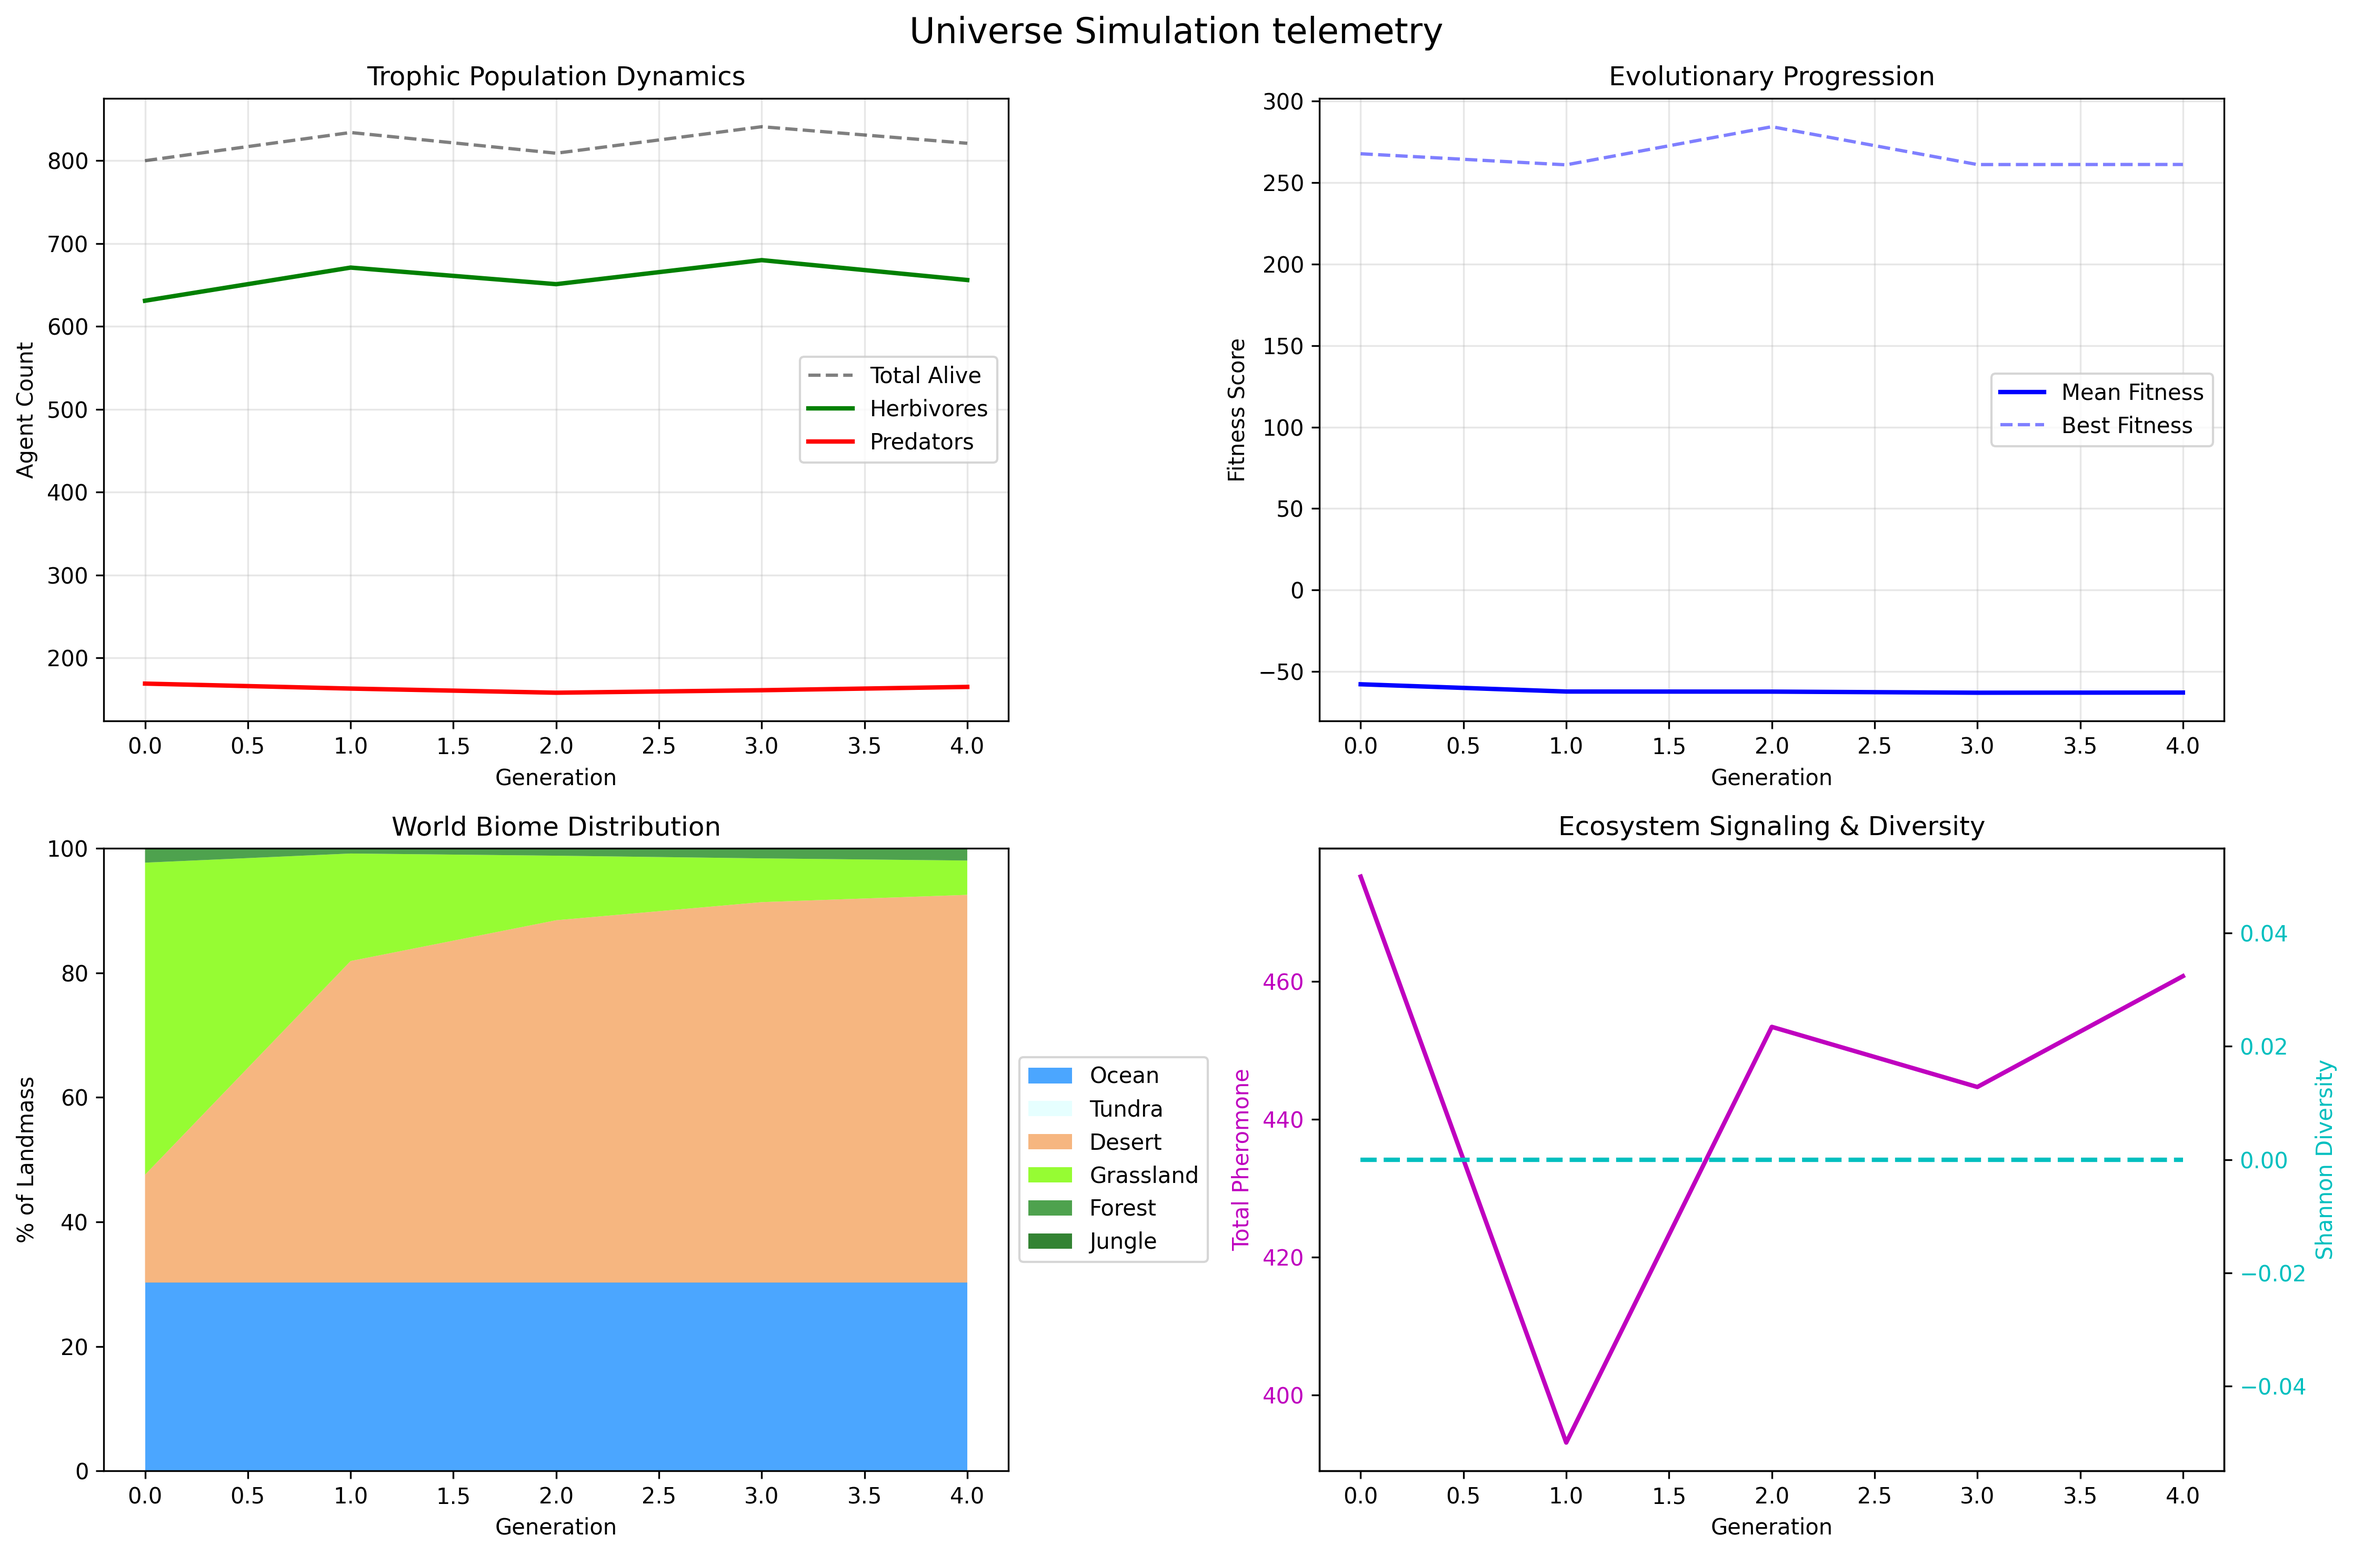
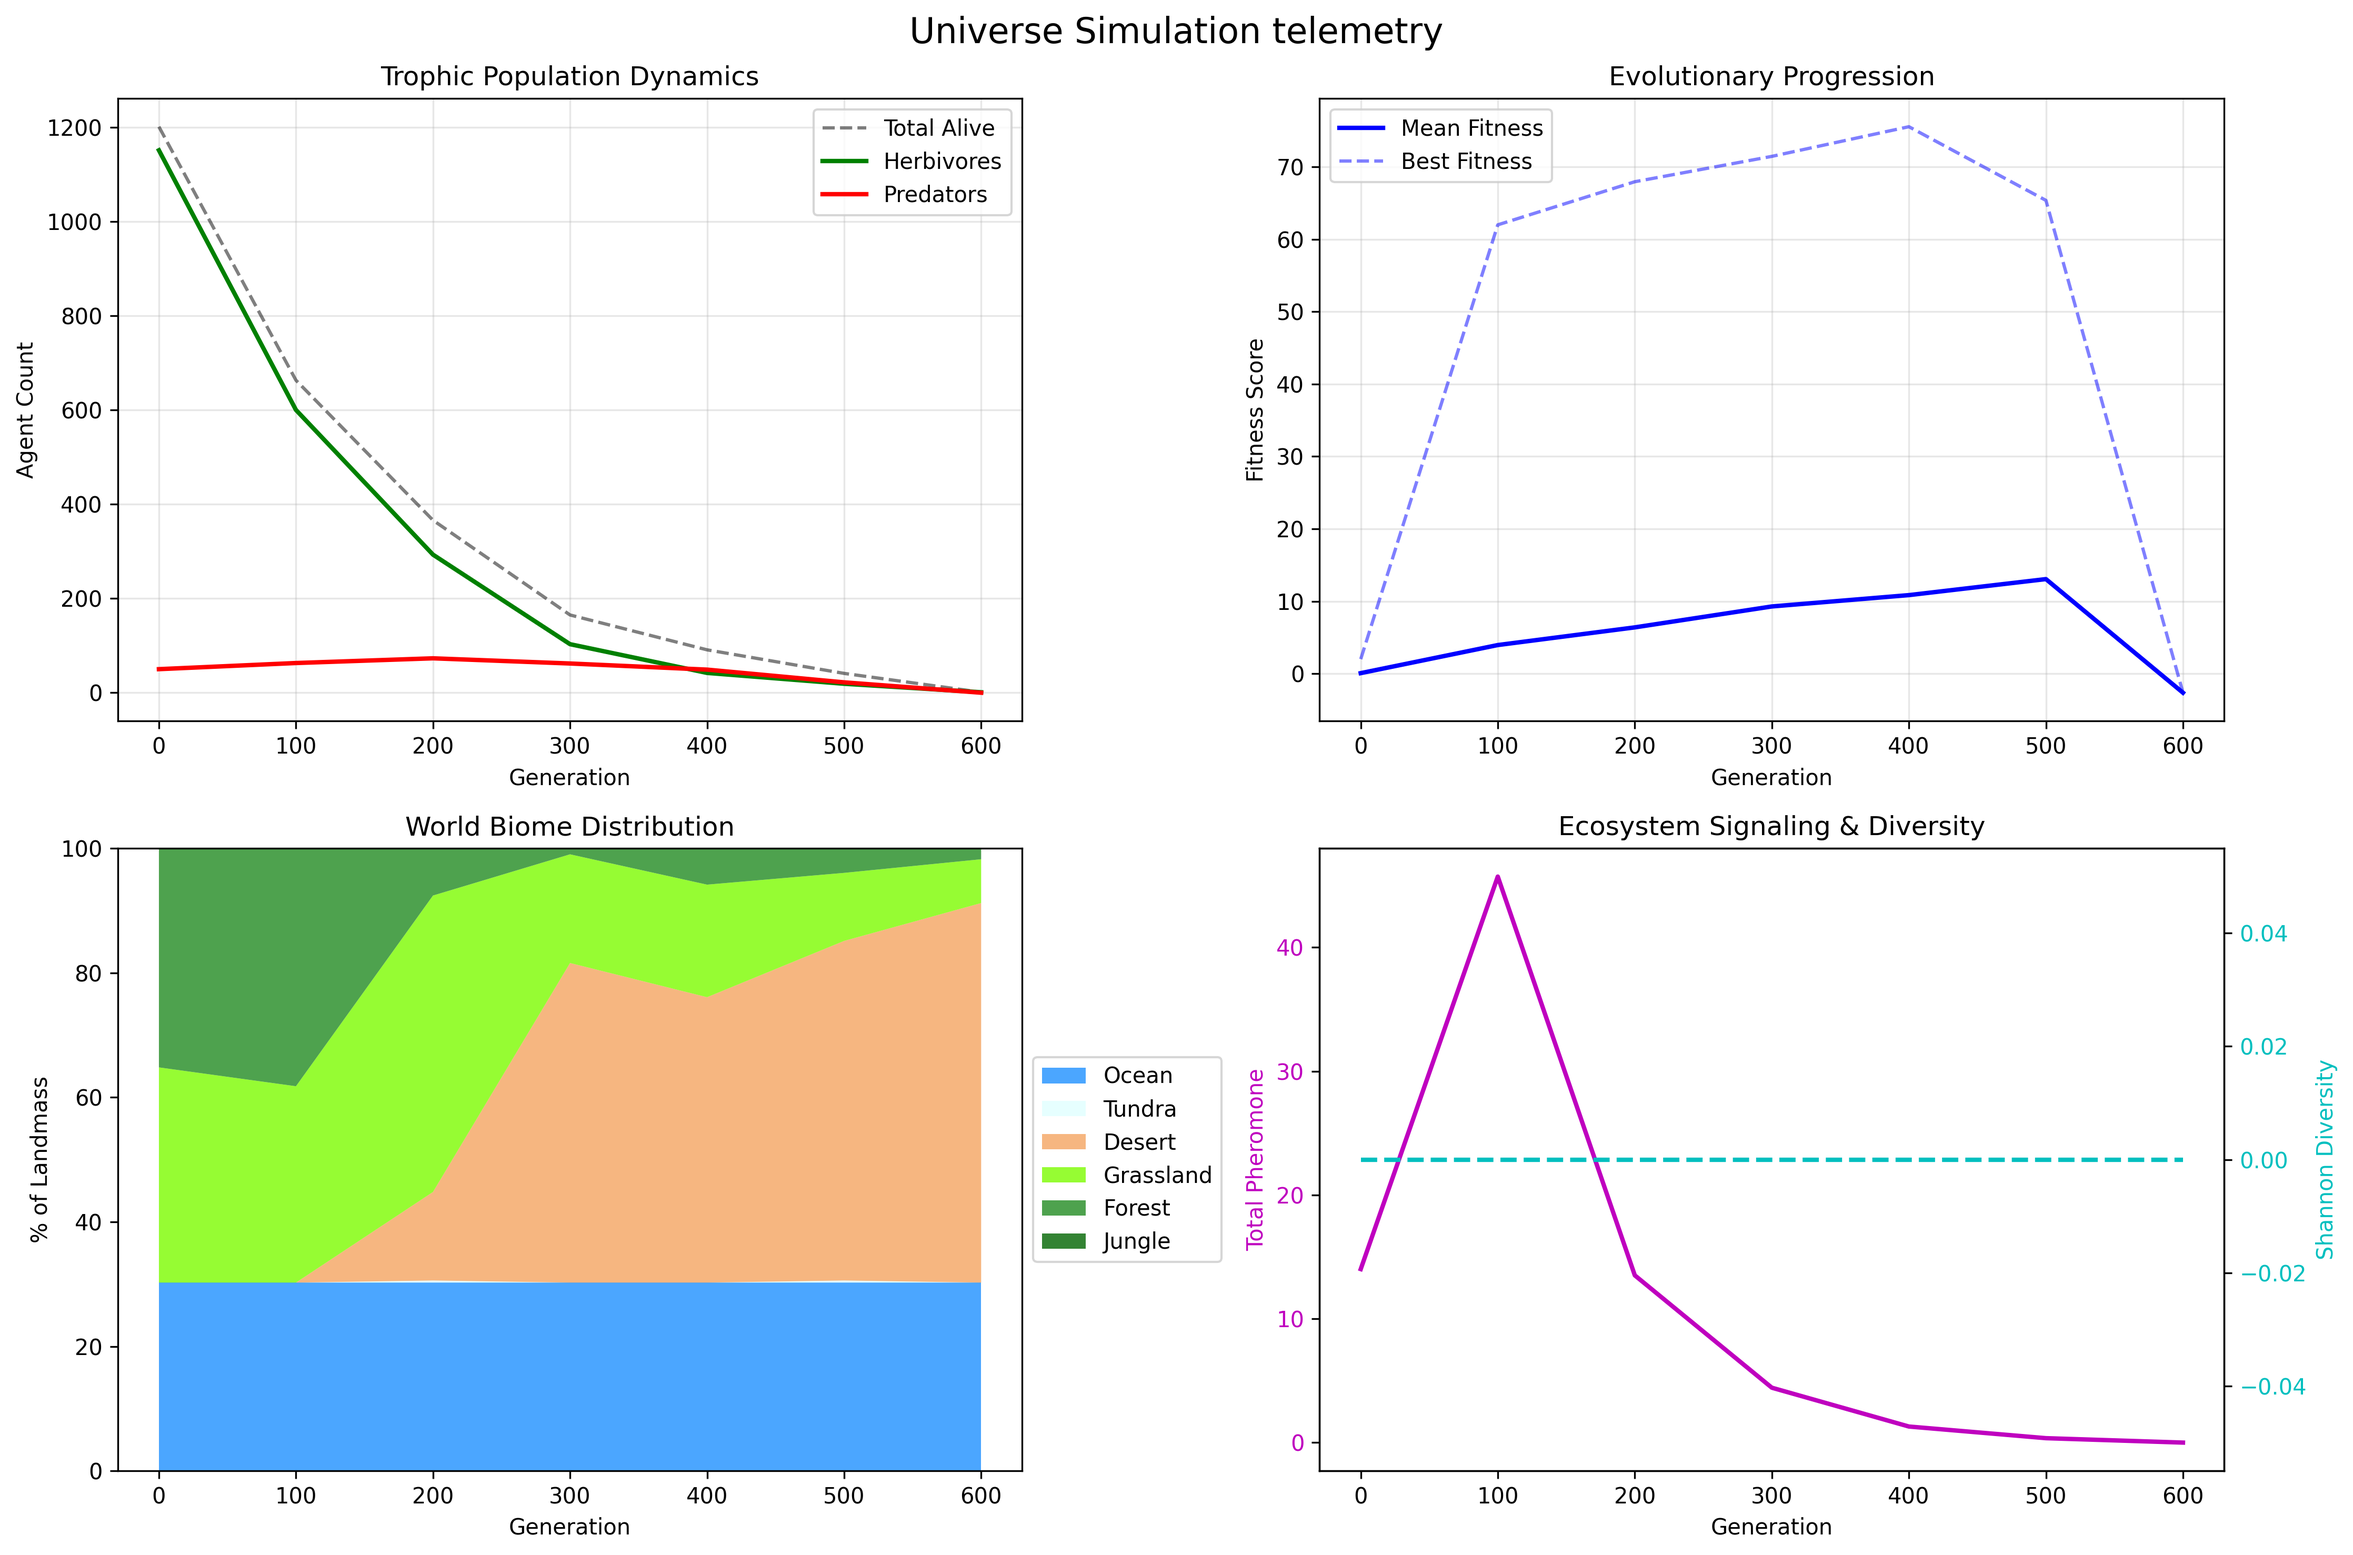
k

diff --git a/src/types.h b/src/types.h
@@ -5,6 +5,7 @@
 #include <string>
 #include <unordered_map>
 #include <vector>
+#include <cmath>
 
 namespace sim {
 
@@ -14,8 +15,8 @@ constexpr int kMemoryStates = 4; // RNN hidden state passed to next tick
 constexpr int kOutputNodes = kActions + kMemoryStates; // 9 outputs
 constexpr float kPi = 3.14159265358979323846f;
 
-// Neural policy architecture: 15 inputs → 10 hidden (tanh) → 9 outputs
-constexpr int kInputFeatures = 15;   // nx,ny,h,t,r,density,e,season,pheromone,moisture,biome, + 4 memory
+// Neural policy architecture: 16 inputs → 10 hidden (tanh) → 9 outputs
+constexpr int kInputFeatures = 16;   // nx,ny,h,t,r,density,e,season,pheromone,moisture,biome,toxicity, + 4 memory
 constexpr int kHiddenNeurons = 10;
 constexpr int kMorphologyGenes = 4;  // size, speed, sensory_radius, toxicity_resistance
 
@@ -23,8 +24,8 @@ constexpr int kBaseGenomeSize = kInputFeatures * kHiddenNeurons   // input→hid
                               + kHiddenNeurons                     // hidden biases
                               + kHiddenNeurons * kOutputNodes      // hidden→output weights
                               + kOutputNodes;                      // output biases
-// = 15*10 + 10 + 10*9 + 9 = 150 + 10 + 90 + 9 = 259
-constexpr int kGenomeSize = kBaseGenomeSize + kMorphologyGenes;     // 263
+// = 16*10 + 10 + 10*9 + 9 = 160 + 10 + 90 + 9 = 269
+constexpr int kGenomeSize = kBaseGenomeSize + kMorphologyGenes;     // 273
 
 // ── Enums ────────────────────────────────────────────────────────────────────
 enum class AgentType : uint8_t { Herbivore = 0, Predator = 1 };
@@ -59,6 +60,7 @@ struct Agent {
   
   bool alive{true};
   int kills{0};
+  int last_mate_tick{-100};      // Cooldown for reproduction
   
   // Recurrent Memory State
   std::array<float, kMemoryStates> memory{};
@@ -85,11 +87,11 @@ struct Config {
   int snapshot_interval{100};        // Save metrics every N ticks
   uint64_t seed{7};
   float softmax_temperature{0.8f};
-  float predator_ratio{0.2f};        
+  float predator_ratio{0.05f};        
   float hunt_success_prob{0.35f};     
   float pheromone_decay{0.92f};       
   float speciation_threshold{0.80f};  
-  float reproduction_threshold{12.0f}; // Energy required to spawn offspring
+  float reproduction_threshold{11.0f}; // Energy required to spawn offspring
 };
 
 struct WorldFields {
@@ -116,6 +118,7 @@ struct SpeciesRecord {
 struct Metrics {
   int tick{};
   float mean_fitness{};
+  float max_fitness{};
   float mean_novelty{};
   float diversity_shannon{};
   int herbivore_count{};

diff --git a/visualize.py b/visualize.py
@@ -12,12 +12,12 @@ def create_visualizations(json_path):
     with open(json_path, 'r') as f:
         data = json.load(f)
         
-    generations = data['generations']
-    if not generations:
-        print("Error: No generation data found in the JSON file.")
+    ticks = data.get('ticks', [])
+    if not ticks:
+        print("Error: No tick data found in the JSON file.")
         sys.exit(1)
         
-    gen_indices = [g['generation'] for g in generations]
+    gen_indices = [g['tick'] for g in ticks]
     
     # ── Create Figure ──
     fig = plt.figure(figsize=(15, 10))
@@ -25,9 +25,9 @@ def create_visualizations(json_path):
     
     # 1. Population Dynamics (Herbivores vs Predators)
     ax1 = plt.subplot(2, 2, 1)
-    herbivores = [g['herbivore_count'] for g in generations]
-    predators = [g['predator_count'] for g in generations]
-    alive = [g['alive_count'] for g in generations]
+    herbivores = [g['herbivore_count'] for g in ticks]
+    predators = [g['predator_count'] for g in ticks]
+    alive = [h + p for h, p in zip(herbivores, predators)]
     
     ax1.plot(gen_indices, alive, 'k--', label='Total Alive', alpha=0.5)
     ax1.plot(gen_indices, herbivores, 'g-', label='Herbivores', linewidth=2)
@@ -41,8 +41,8 @@ def create_visualizations(json_path):
     
     # 2. Evolutionary Metrics (Fitness & Novelty)
     ax2 = plt.subplot(2, 2, 2)
-    mean_fitness = [g['mean_fitness'] for g in generations]
-    best_fitness = [g['best_fitness'] for g in generations]
+    mean_fitness = [g['mean_fitness'] for g in ticks]
+    best_fitness = [g.get('max_fitness', g['mean_fitness']) for g in ticks] 
     
     ax2.plot(gen_indices, mean_fitness, 'b-', label='Mean Fitness', linewidth=2)
     ax2.plot(gen_indices, best_fitness, 'b--', label='Best Fitness', alpha=0.5)
@@ -61,7 +61,7 @@ def create_visualizations(json_path):
     biome_colors = ['#1E90FF', '#E0FFFF', '#F4A460', '#7CFC00', '#228B22', '#006400']
     
     biome_history = {b: [] for b in biomes}
-    for g in generations:
+    for g in ticks:
         b_dist = g.get('biome_distribution', {})
         for b in biomes:
             biome_history[b].append(b_dist.get(b, 0.0) * 100) # Convert to percentage
@@ -81,8 +81,8 @@ def create_visualizations(json_path):
     
     # 4. Ecosystem Health (Pheromones & Diversity)
     ax4 = plt.subplot(2, 2, 4)
-    pheromones = [g['total_pheromone'] for g in generations]
-    diversity = [g['species_shannon'] for g in generations]
+    pheromones = [g['total_pheromone'] for g in ticks]
+    diversity = [g['species_shannon'] for g in ticks]
     
     color1 = 'm'
     ax4.set_xlabel('Generation')

diff --git a/src/evolution.h b/src/evolution.h
@@ -149,13 +149,14 @@ inline int resolve_mating(std::vector<Agent>& population, const Config& cfg,
   for (int idx = 0; idx < static_cast<int>(population.size()); ++idx) {
     Agent& a = population[idx];
     if (!a.alive || a.energy < cfg.reproduction_threshold) continue;
+    if (current_tick - a.last_mate_tick < 30) continue; // 30-tick cooldown
 
     int px = static_cast<int>(a.pos.x);
     int py = static_cast<int>(a.pos.y);
 
-    // Scan adjacent for mate
-    for (int dy = -1; dy <= 1; ++dy) {
-      for (int dx = -1; dx <= 1; ++dx) {
+    // Scan adjacent for mate (radius 2)
+    for (int dy = -2; dy <= 2; ++dy) {
+      for (int dx = -2; dx <= 2; ++dx) {
         int nx = std::clamp(px + dx, 0, cfg.width - 1);
         int ny = std::clamp(py + dy, 0, cfg.height - 1);
         size_t ci = idx_2d(nx, ny, cfg);
@@ -168,18 +169,21 @@ inline int resolve_mating(std::vector<Agent>& population, const Config& cfg,
           
           if (mate.species_id == a.species_id && 
               mate.type == a.type && 
-              mate.gender != a.gender) {
+              mate.gender != a.gender &&
+              (current_tick - mate.last_mate_tick > 30)) {
 
-            // Found a valid mate! Both lose high energy.
-            a.energy -= 6.0f;
-            mate.energy -= 6.0f;
+            // Found a valid mate! Both lose energy and trigger cooldown.
+            a.energy -= 5.0f;
+            mate.energy -= 5.0f;
+            a.last_mate_tick = current_tick;
+            mate.last_mate_tick = current_tick;
 
             // Spawn Child
             Agent child;
             child.pos = {std::clamp(a.pos.x + (coin(rng)-0.5f), 0.0f, static_cast<float>(cfg.width - 1)),
                          std::clamp(a.pos.y + (coin(rng)-0.5f), 0.0f, static_cast<float>(cfg.height - 1))};
                          
-            child.energy = 8.0f; // Started strong
+            child.energy = 4.0f; // Started strong
             child.max_lifespan = lifespan_dist(rng);
             child.type = a.type;
             child.gender = static_cast<Gender>(gender_dist(rng));

diff --git a/src/agents.h b/src/agents.h
@@ -1,5 +1,6 @@
 #pragma once
 #include "types.h"
+#include "world.h"
 #include <algorithm>
 #include <array>
 #include <cmath>
@@ -107,11 +108,11 @@ inline void decode_morphology(Agent& a) {
   
   // Recalculate biological limits based on morphology
   // Huge, fast agents burn more energy!
-  a.metabolic_rate = 0.02f 
+  a.metabolic_rate = 0.008f 
                    * (a.body_size * a.body_size) // Quadratic mass penalty
                    * a.speed_mod;                // Linear speed penalty
                    
-  if(a.type == AgentType::Predator) a.metabolic_rate *= 1.4f; // Carnivores burn hotter
+  if(a.type == AgentType::Predator) a.metabolic_rate *= 1.2f; // Carnivores burn hotter
 }
 
 // ── Population Initialization ─────────────────────────────────────────────────
@@ -128,7 +129,7 @@ inline void init_population(std::vector<Agent>& population, const Config& cfg, s
   for (int idx = 0; idx < cfg.initial_agents; ++idx) {
     Agent& a = population[idx];
     a.pos = {xdist(rng), ydist(rng)};
-    a.energy = 8.0f;
+    a.energy = 12.0f;
     a.fitness = 0.0f;
     a.novelty_score = 0.0f;
     a.age = 0;
@@ -184,7 +185,7 @@ inline void resolve_hunting(std::vector<Agent>& population, const Config& cfg,
 
           // Body Size heavily impacts hunting!
           float size_advantage = predator.body_size / prey.body_size;
-          float success_prob = cfg.hunt_success_prob * size_advantage;
+          float success_prob = 0.12f * size_advantage; // Much lower success
           success_prob += 0.05f * (predator.energy / 12.0f);
           success_prob = std::clamp(success_prob, 0.05f, 0.85f);
 

diff --git a/src/metrics.h b/src/metrics.h
@@ -25,6 +25,7 @@ inline Metrics compute_metrics(const std::vector<Agent>& population, const World
   species_counts.reserve(128);
 
   float sum_f = 0.0f;
+  float max_f = -1e9f;
   float sum_n = 0.0f;
   float sum_age = 0.0f;
   float sum_size = 0.0f;
@@ -34,6 +35,7 @@ inline Metrics compute_metrics(const std::vector<Agent>& population, const World
   for (const auto& a : population) {
     if (!a.alive) continue;
     sum_f += a.fitness;
+    max_f = std::max(max_f, a.fitness);
     sum_n += a.novelty_score;
     sum_age += static_cast<float>(a.age);
     
@@ -51,6 +53,7 @@ inline Metrics compute_metrics(const std::vector<Agent>& population, const World
   const float n = static_cast<float>(population.size());
   if(n > 0.0f) {
     m.mean_fitness = sum_f / n;
+    m.max_fitness = max_f;
     m.mean_novelty = sum_n / n;
     m.mean_age = sum_age / n;
     m.mean_size = sum_size / n;
@@ -116,6 +119,7 @@ inline std::string summary_json(const Config& cfg, const std::vector<Metrics>& m
     os << "    {"
        << "\"tick\": " << m.tick
        << ", \"mean_fitness\": " << m.mean_fitness
+       << ", \"max_fitness\": " << m.max_fitness
        << ", \"species_shannon\": " << m.diversity_shannon
        << ", \"species_count\": " << m.species_count
        << ", \"herbivore_count\": " << m.herbivore_count
